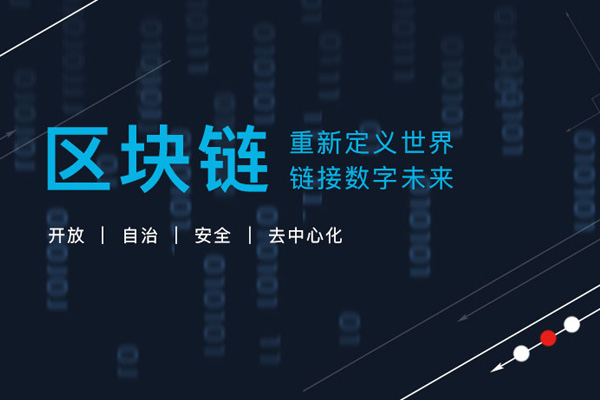
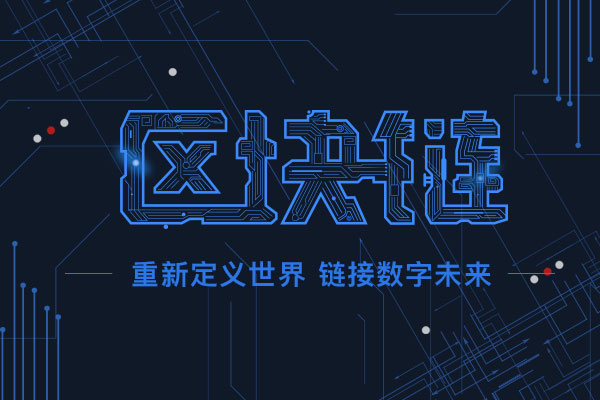
salesman

diff --git a/src/main/webapp/resources/salesman/channel01.html b/src/main/webapp/resources/salesman/channel01.html
@@ -44,7 +44,7 @@
 		</div>
 	</div>
 	<div class="top2"></div>
-	<div class="banner00"><img src="channel_img/banner01.jpg" alt="区块链宣传片"></div>
+	<div class="banner00"><img src="channel_img/banner01.gif" alt="区块链宣传片"></div>
 	<div class="main_pd">
 		<h2>当共享经济遇上区块链</h2>
 		<p>共享经济与区块链可谓是当下最热门的两种前沿科技，而区块链技术目前已经得到爆发；<br>
